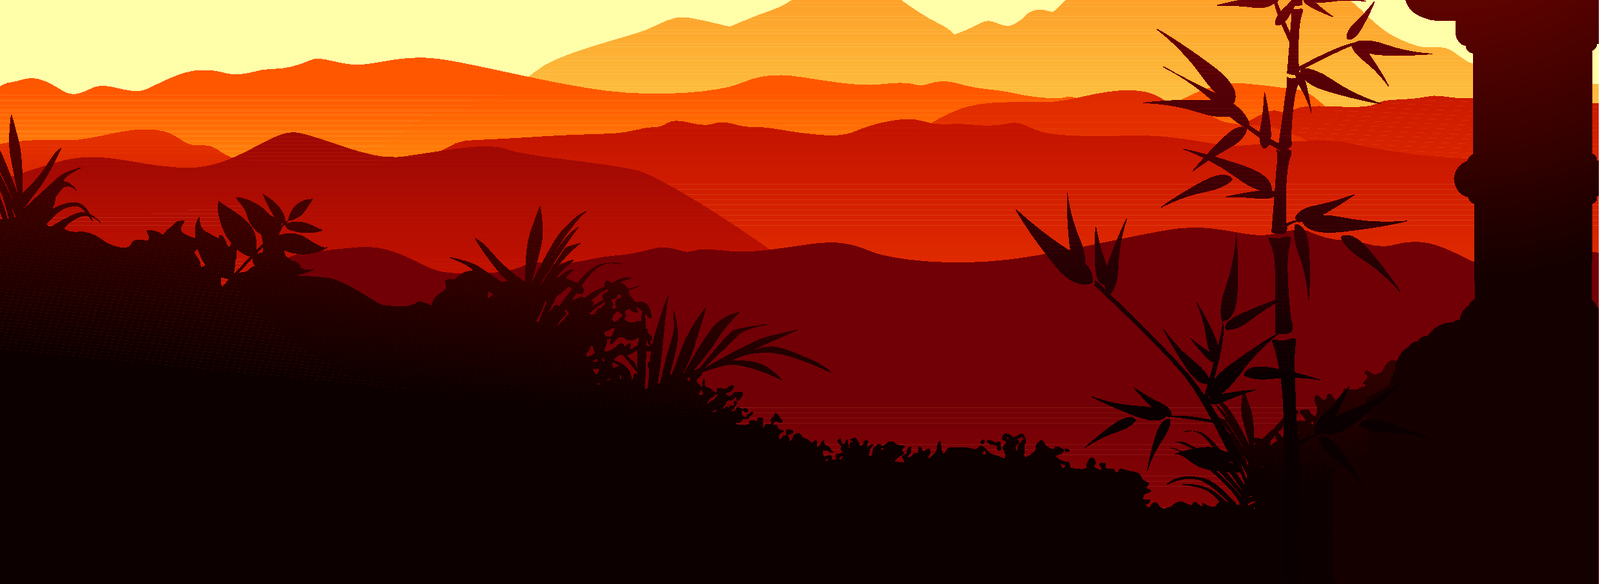
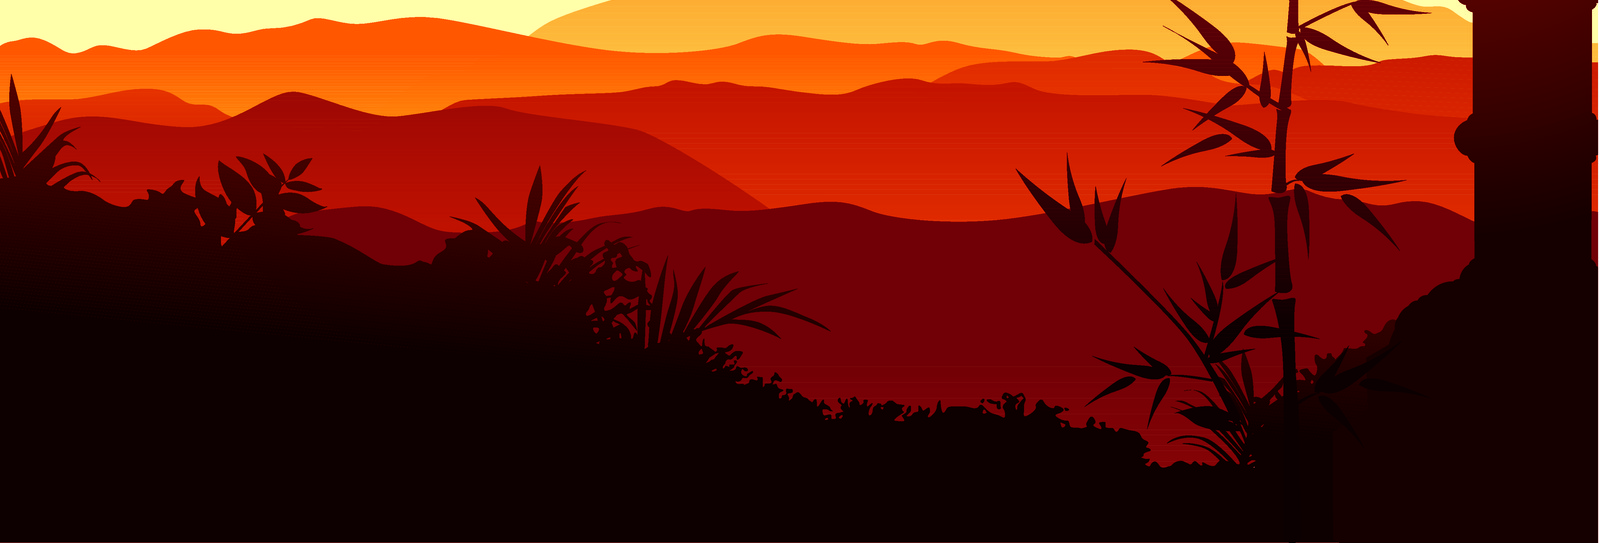
appearance tweaks

diff --git a/convert_image_sizes.py b/convert_image_sizes.py
@@ -6,12 +6,13 @@ eps='/home/nolan/Dropbox/Pictures/iStockPhoto/illustration.eps'
 
 sizes=[480, 767, 1000, 1200, 1600, 2000]
 crop_heights=[2000, 2000, 1000, 1000, 1000, 1000]
-crop_offsets_y=[2100, 2100, 2100, 2100, 2100, 2100]
+crop_offsets_y=[2100, 2100, 2100, 2100, 2150, 2150]
+densities=[300, 300, 300, 300, 600, 600]
 crop_height=1000
 crop_offset_y=2100
 crop_relative_to=2000
 density=300
 
-for (size, crop_height, crop_offset_y) in zip(sizes, crop_heights, crop_offsets_y):
+for (size, crop_height, crop_offset_y, density) in zip(sizes, crop_heights, crop_offsets_y, densities):
     scale = 1.0 * size / crop_relative_to
     os.system('convert -density %d %s -resize %dx -crop %dx%d+0+%d  +repage images/lantern-%dw.jpg' % (density, eps, size, size, round(scale * crop_height), round(scale * crop_offset_y), size))
